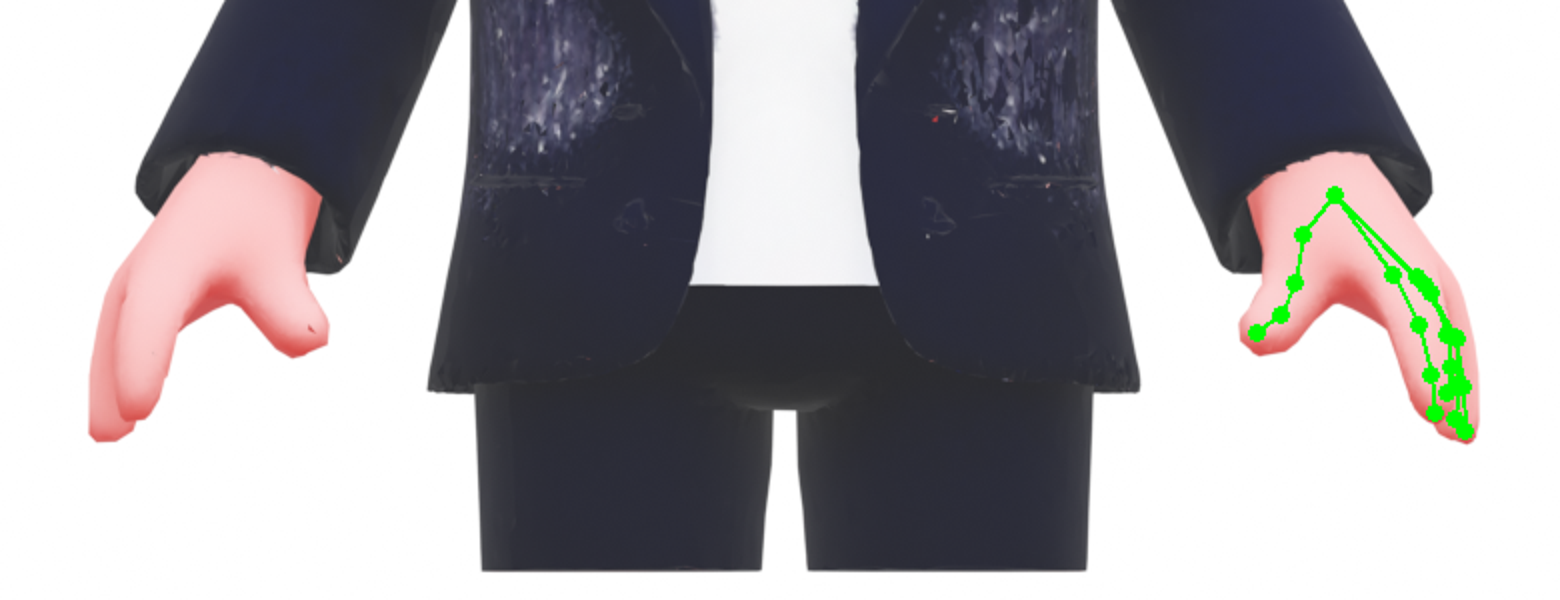
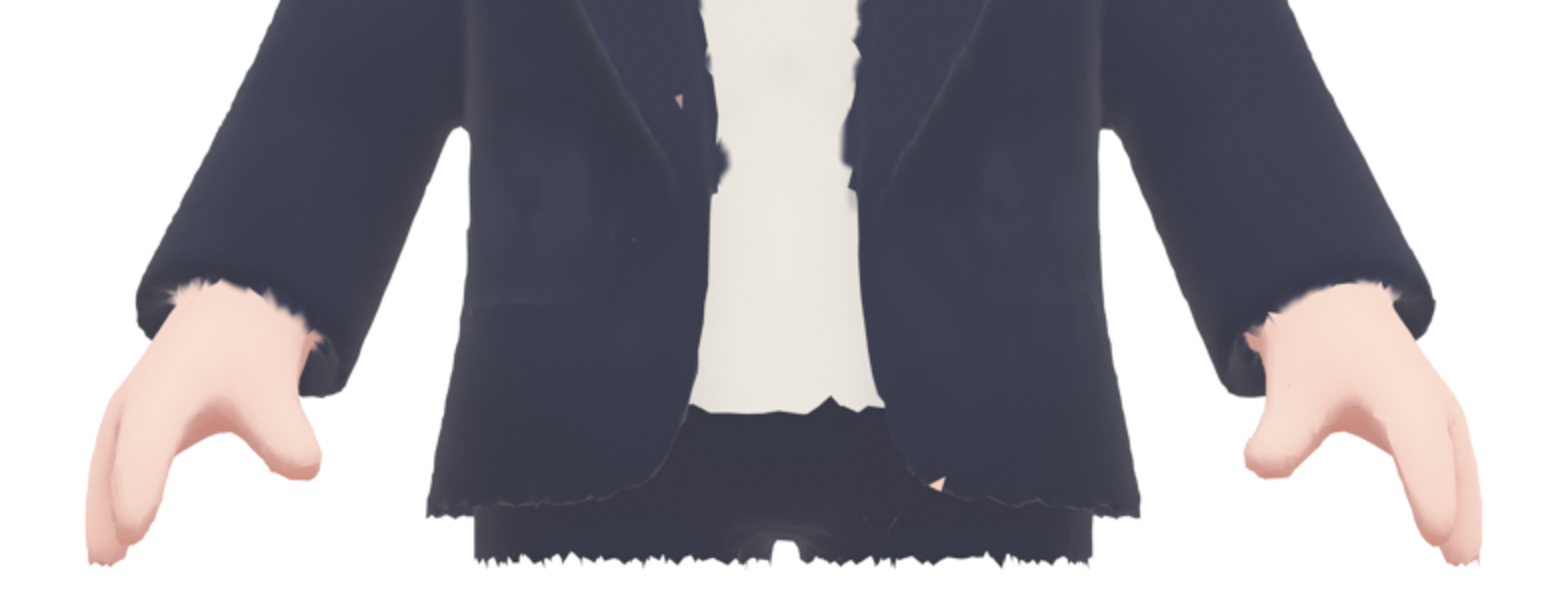
docs: 만드는 방법 (docs/HOW-TO-BUILD.md) — 도구 설치부터 A자 이미지·몸 3D·상자 모델·머리 이식·손·리깅·확인까지 전체 명령과 잘 안 됐던 것. trellis-mac 로컬 수정을 패치·스크립트로, 손으로 했던 랜드마크 합치기를 rig/merge_landmarks.py 로

diff --git a/trellis/patch_trellis_mac.py b/trellis/patch_trellis_mac.py
@@ -1,0 +1,48 @@
+"""trellis-mac(TRELLIS.2 Apple Silicon 포트)에 이 저장소가 쓴 로컬 수정을 입힌다. 여러 번 실행해도 된다.
+
+  python3 trellis/patch_trellis_mac.py ~/Documents/GitHub/trellis-mac
+
+1. backends/texture_baker.py·generate.py: trellis/trellis-mac.patch (텍스처 굽기 v방향·텍셀 중심·감마 버그, UV 여백, --bake-faces, 다시 굽기용 *_bake.npz 저장)
+2. TRELLIS.2/.../rembg/BiRefNet.py: 배경 제거 모델을 환경변수 TRELLIS_REMBG 로 바꿀 수 있게 (게이트된 briaai/RMBG-2.0 대신 공개 ZhengPeng7/BiRefNet), float32 로 맞춤
+3. venv 에 einops(BiRefNet), gradio_client(Space 호출), mediapipe(관절 찾기) 설치
+setup.sh 를 먼저 실행해 둔 trellis-mac 에 쓴다 (기준 커밋 trellis-mac d58628f, TRELLIS.2 75fbf01).
+"""
+import subprocess
+import sys
+from pathlib import Path
+
+HERE = Path(__file__).resolve().parent
+tm = Path(sys.argv[1]).expanduser().resolve() if len(sys.argv) > 1 else Path.home() / 'Documents/GitHub/trellis-mac'
+
+# 1) git 패치
+gen = (tm / 'generate.py').read_text()
+if '--bake-faces' in gen:
+    print('[patch] generate.py·texture_baker.py: already patched')
+else:
+    subprocess.run(['git', 'apply', str(HERE / 'trellis-mac.patch')], cwd=tm, check=True)
+    print('[patch] applied trellis-mac.patch')
+
+# 2) BiRefNet
+p = tm / 'TRELLIS.2/trellis2/pipelines/rembg/BiRefNet.py'
+s = p.read_text()
+if 'TRELLIS_REMBG' not in s:
+    a = '''    def __init__(self, model_name: str = "ZhengPeng7/BiRefNet"):
+        self.model = AutoModelForImageSegmentation.from_pretrained('''
+    b = '''    def __init__(self, model_name: str = "ZhengPeng7/BiRefNet"):
+        # 로컬 수정: 게이트된 briaai/RMBG-2.0 대신 같은 구조의 공개 BiRefNet(MIT)을 쓸 수 있게 환경변수로 바꾼다
+        import os
+        model_name = os.environ.get("TRELLIS_REMBG", model_name)
+        self.model = AutoModelForImageSegmentation.from_pretrained('''
+    assert a in s, 'BiRefNet.py 모양이 예상과 다르다'
+    s = s.replace(a, b, 1)
+if 'self.model.float()' not in s:
+    s = s.replace('''        self.model.eval()''', '''        # 로컬 수정: 공개 BiRefNet 가중치는 half 로 실려 와 float 입력과 안 맞는다 → float32 로 맞춘다
+        self.model.float()
+        self.model.eval()''', 1)
+p.write_text(s)
+print('[patch] BiRefNet.py ok')
+
+# 3) 추가 패키지
+py = tm / '.venv/bin/python'
+subprocess.run(['uv', 'pip', 'install', '--python', str(py), '-q', 'einops', 'gradio_client', 'mediapipe'], check=True)
+print('[patch] extra packages ok')

diff --git a/rig/merge_landmarks.py b/rig/merge_landmarks.py
@@ -1,0 +1,35 @@
+"""머리 이식 뒤 rig.py 가 읽을 랜드마크를 만든다.
+
+  python3 rig/merge_landmarks.py
+
+입력: rig/body-front.json·body-front-landmarks.json (이식 전 몸 정면 렌더), rig/front.json·front-landmarks.json (이식 뒤 정면 렌더)
+출력: rig/front-landmarks.json (덮어씀), rig/front-hands.json
+
+- 포즈(어깨·팔꿈치·손목)는 이식 전 몸에서 찾은 값을 쓴다. 몸은 그대로라 같은 자리이고,
+  이식 뒤 렌더는 머리가 커져 화면 배율이 달라 MediaPipe 포즈가 흔들린다. 그래서 픽셀 좌표만 새 렌더 배율로 옮긴다.
+- 얼굴은 이식 뒤 렌더(새 머리)에서 찾은 값을 그대로 둔다.
+- 손은 rig/hand/ 의 새 손을 쓰므로 비워 둔다 (rig.py 가 아래팔 연장선으로 임시 점을 만든다).
+"""
+import json
+from pathlib import Path
+
+H = Path(__file__).resolve().parent
+old_o = json.load(open(H / 'body-front.json'))
+old_l = json.load(open(H / 'body-front-landmarks.json'))
+new_o = json.load(open(H / 'front.json'))
+new_l = json.load(open(H / 'front-landmarks.json'))
+
+
+def conv(p):
+    r, s = old_o['res'], old_o['ortho_scale']
+    x = old_o['cx'] + (p[0] - r / 2) / r * s
+    z = old_o['cz'] - (p[1] - r / 2) / r * s
+    r2, s2 = new_o['res'], new_o['ortho_scale']
+    return [r2 / 2 + (x - new_o['cx']) / s2 * r2, r2 / 2 - (z - new_o['cz']) / s2 * r2] + list(p[2:])
+
+
+new_l['pose'] = [conv(p) for p in old_l['pose']]
+new_l['note'] = 'pose: 이식 전 몸 렌더에서 찾은 관절을 새 렌더 픽셀로 옮긴 값. face: 새 렌더(이식한 머리)에서 찾은 값'
+json.dump(new_l, open(H / 'front-landmarks.json', 'w'))
+json.dump({'L': None, 'R': None}, open(H / 'front-hands.json', 'w'))
+print('[merge] wrote rig/front-landmarks.json, rig/front-hands.json')

diff --git a/docs/HOW-TO-BUILD.md b/docs/HOW-TO-BUILD.md
@@ -1,0 +1,183 @@
+# 이 캐릭터를 만든 방법
+
+영상 속 캐릭터를 카메라로 움직이는 3D 버튜버로 만든 전 과정입니다.
+명령은 저장소 루트에서 실행합니다. 모든 생성은 Apple Silicon Mac 한 대에서 무료로 돌렸습니다.
+
+전체 흐름은 이렇습니다.
+
+```
+레퍼런스 영상 프레임
+ ├─ (FLUX.2) 팔 벌린 A자 이미지 ─ (TRELLIS.2 로컬) 몸 3D ─ 텍스처 다시 굽기·정리 ─┐
+ ├─ (TRELLIS.2 Space) 프레임 그대로 3D = "상자 모델" (얼굴이 가장 닮음) ──────────┤ 머리 이식
+ └─ (FLUX.2 → TRELLIS.2) 손가락이 떨어진 손 ─────────────────────────────────────┤
+                                                       리깅 (뼈·가중치·3D 입) ─ public/navy.glb ─ three.js 앱
+```
+
+## 0. 준비물
+
+- Apple Silicon Mac, 메모리 24GB 이상 (TRELLIS 생성 중 최대 약 18GB를 씁니다).
+- 디스크 약 60GB (모델 가중치: TRELLIS 15GB, FLUX.2 klein 9B 8bit 18GB, 그 밖).
+- Node.js, `uv`, `ffmpeg`, `7z`(`brew install p7zip`).
+- Hugging Face 계정. `facebook/dinov3-vitl16-pretrain-lvd1689m` 사용 신청이 승인돼야 합니다 (Meta가 직접 검토해서 몇 시간 걸릴 수 있습니다).
+
+## 1. 도구 설치
+
+Blender 5.2: `brew install --cask blender` 가 DMG 마운트에서 실패하는 환경이 있습니다. 그때는 받은 DMG를 7z로 풀어서 옮깁니다.
+
+```sh
+brew install --cask blender || true
+7z x -y -o/tmp/bl ~/Library/Caches/Homebrew/downloads/*blender-*.dmg
+ditto /tmp/bl/Blender/Blender.app /Applications/Blender.app
+```
+
+TRELLIS.2 Apple Silicon 포트(trellis-mac)와 이 저장소의 로컬 수정:
+
+```sh
+git clone https://github.com/shivampkumar/trellis-mac.git ~/Documents/GitHub/trellis-mac
+cd ~/Documents/GitHub/trellis-mac && bash setup.sh && cd -
+python3 trellis/patch_trellis_mac.py ~/Documents/GitHub/trellis-mac
+~/Documents/GitHub/trellis-mac/.venv/bin/hf auth login
+```
+
+Xcode가 없으면 Metal 확장이 빌드되지 않고 CPU 굽기로 넘어갑니다. 그 CPU 굽기에 버그가 있어서(텍스처가 위아래로 뒤집혀 노이즈처럼 보임, 감마가 두 번 걸림) `patch_trellis_mac.py` 가 고칩니다.
+게이트된 배경 제거 모델(briaai/RMBG-2.0) 대신 공개 BiRefNet을 쓰게 하는 수정도 같이 들어갑니다.
+
+이미지 편집(FLUX.2 klein):
+
+```sh
+uv tool install --upgrade mflux
+```
+
+편의를 위해 아래에서 쓰는 변수입니다.
+
+```sh
+B=/Applications/Blender.app/Contents/MacOS/Blender
+PY=~/Documents/GitHub/trellis-mac/.venv/bin/python
+TM=~/Documents/GitHub/trellis-mac
+```
+
+## 2. 레퍼런스 프레임
+
+```sh
+for t in 0 2 4 6; do ffmpeg -v error -y -ss $t -i ~/Downloads/avatar-1791270641941691033-11.mp4 -frames:v 1 reference/idle-$t.png; done
+```
+
+`trellis/input-idle.png` 는 `reference/idle-0.png` 에서 오른쪽 아래 계산기를 배경색 다각형으로 지운 이미지입니다.
+계산기가 남아 있으면 몸에 붙은 덩어리로 생성됩니다.
+
+## 3. 팔 벌린 A자 이미지 (FLUX.2, 로컬, 약 2분)
+
+레퍼런스는 손을 책상에 올린 채 화면 아래에서 잘려 있습니다. 그대로 3D로 만들면 몸이 상자에 들어간 모양이 되고 팔이 굳습니다.
+같은 캐릭터를 팔을 벌리고 선 자세로 다시 그립니다.
+
+```sh
+mflux-generate-flux2-edit --model mlx-community/flux2-klein-9b-8bit --base-model flux2-klein-9b \
+  --image-paths trellis/input-idle.png --prompt-file trellis/apose-prompt.txt \
+  --width 1024 --height 1024 --seed 1 --low-ram --output trellis/apose-s1.png
+```
+
+## 4. 몸 3D (TRELLIS.2, 로컬)
+
+```sh
+cd $TM && source .venv/bin/activate
+TRELLIS_REMBG=ZhengPeng7/BiRefNet python generate.py ~/Documents/GitHub/navy-blender-vtuber/trellis/apose-s1.png \
+  --seed 42 --pipeline-type 512 --texture-size 2048 --output ~/Documents/GitHub/navy-blender-vtuber/trellis/apose-s1-t42b
+cd -
+```
+
+생성은 약 5분이고, 20만 면 UV 펼치기에 약 40분이 더 걸립니다. 결과와 함께 `*_bake.npz`(복셀 색·메시)가 남아서 다음 단계부터는 생성 없이 다시 구울 수 있습니다.
+`--pipeline-type 1024_cascade` 는 24GB 메모리에서 스왑이 40GB까지 차서 멈췄습니다. 512로 충분했습니다.
+
+텍스처 다시 굽기와 정리:
+
+```sh
+$PY trellis/rebake.py trellis/apose-s1-t42b_bake.npz trellis/body-tex.glb      # 면 방향 통일·UV 밀도·색 정리 (약 1분)
+$PY trellis/clean_tex3d.py trellis/body-tex.glb trellis/body-tex-clean.glb --cell 0.008   # 3D 칸 다수결로 튀는 점 정리
+```
+
+## 5. 얼굴용 "상자 모델" (TRELLIS.2 공식 Space)
+
+로컬 결과는 FLUX가 다시 그린 얼굴이라 레퍼런스와 조금 다르고, 눈 가장자리가 번집니다.
+레퍼런스 프레임을 그대로 넣은 공식 Space 결과가 얼굴·머리카락이 가장 닮았습니다 (몸은 상자에 들어간 모양이라 머리만 씁니다).
+
+```sh
+$PY trellis/space_gen.py trellis/input-idle.png trellis/out-idle-s0.glb 0 1024
+```
+
+이 단계는 이미지를 Hugging Face 서버에 올립니다. 무료 GPU 할당량이 하루 몇 분이라 두세 번 돌리면 다음 날까지 막힙니다.
+
+## 6. 머리 이식
+
+두 모델의 정면을 직교로 렌더하고 MediaPipe로 눈·입·턱 위치를 찾은 뒤, 상자 모델 머리를 몸에 맞춰 붙입니다.
+크기는 레퍼런스 비율(머리 : 몸통 = 1.44)로 정하고, 목 띠는 텍스처 색으로 갈라 이음매를 셔츠 깃에 둡니다. 코끝도 여기서 살짝 뾰족하게 다듬습니다.
+
+```sh
+$B --background --python rig/front_ortho.py -- trellis/body-tex-clean.glb rig/body-front.png 1024
+$PY rig/detect.py rig/body-front.png
+ROTX=0 $B --background --python rig/front_ortho.py -- trellis/out-idle-s0.glb rig/box-front.png 1024
+$PY rig/detect.py rig/box-front.png
+$B --background --python rig/headswap.py -- trellis/body-tex-clean.glb trellis/out-idle-s0.glb trellis/body-swap.glb
+```
+
+`ROTX=0` 은 Space 결과가 이미 서 있어서 세우는 회전을 빼는 옵션입니다 (로컬 결과는 누워서 나옵니다).
+
+## 7. 손 (손가락이 떨어진 손)
+
+생성된 몸의 손은 네 손가락이 붙은 벙어리장갑 모양이라 손가락 트래킹이 안 됩니다. 손만 따로 만들어 소매에 끼웁니다.
+
+```sh
+mflux-generate-flux2-edit --model mlx-community/flux2-klein-9b-8bit --base-model flux2-klein-9b \
+  --image-paths trellis/apose-s1.png --prompt-file trellis/hand-prompt.txt \
+  --width 1024 --height 1024 --seed 11 --low-ram --output trellis/hand-s11.png
+cd $TM && source .venv/bin/activate
+TRELLIS_REMBG=ZhengPeng7/BiRefNet python generate.py ~/Documents/GitHub/navy-blender-vtuber/trellis/hand-s11.png \
+  --seed 42 --pipeline-type 512 --texture-size 1024 --bake-faces 30000 --output ~/Documents/GitHub/navy-blender-vtuber/trellis/hand-s11-t42
+cd -
+$PY rig/hand/recolor.py trellis/hand-s11-t42.glb rig/hand/hand_R.glb 225 120 114   # 손 텍스처가 단색 빨강으로 구워져서 피부색으로
+for v in front side top; do $B --background --python rig/hand/ortho.py -- rig/hand/hand_R.glb rig/hand/ortho-$v.png 1024 $v; done
+$PY rig/hand/landmarks.py rig/hand/hand_R.glb    # MediaPipe 21점을 3D로 → rig/hand/hand_R.json
+```
+
+왼손은 리깅 때 오른손을 거울로 뒤집어 만듭니다.
+
+## 8. 리깅
+
+```sh
+$B --background --python rig/front_ortho.py -- trellis/body-swap.glb rig/front.png 1024
+$PY rig/detect.py rig/front.png
+python3 rig/merge_landmarks.py       # 몸 관절은 이식 전 렌더 값, 얼굴은 이식 뒤 값
+$B --background --python rig/rig.py -- trellis/body-swap.glb public/navy.glb --baked-face
+```
+
+`rig/rig.py` 가 하는 일 (몇 초):
+
+- 세워서 앱 크기(재킷 밑단 y=0 ~ 머리 끝 3.05)로 맞추고, 바지를 잘라 냅니다.
+- MediaPipe 관절을 소매 단면의 가운데로 옮겨 뼈를 세웁니다. 손가락 15개씩, 턱(`jaw`), 윗입술(`lip_up`)까지 45개입니다.
+- 가중치는 Blender 자동 가중치가 이 메시에서 실패해서, 뼈까지 거리와 관절 사이 섞임 띠로 직접 계산합니다 (`rig/weights.py`).
+- 생성 손을 소매 끝에서 잘라 내고 새 손을 끼웁니다 (`rig/handattach.py`). 소매 끝에는 남색 말린 단을 덧댑니다.
+- 재킷·셔츠는 생성 텍스처의 흰 얼룩 때문에 단색 재질로 바꾸고, 라펠 가장자리 가시를 셔츠 경계선으로 밀어 정리합니다.
+- 3D 입 (`rig/mouth.py`): 텍스처에서 구운 미소 선을 찾아 그 곡선으로 메시를 가르고, 입 뒤의 숨은 안쪽 껍질을 지우고, 입 속·혀를 넣습니다. 입 가운데만 크게 열리고 입꼬리는 거의 닫히게 가중치를 줍니다.
+- 끝이 파여 보이던 오른눈은 왼눈을 좌우로 뒤집어 텍셀 단위로 옮깁니다 (`rig/hairtrim.py` 의 `mirror_eye`).
+- 겨드랑이 다리, 얼굴 점 위치(`public/navy-rig.json`)를 만들어 함께 내보냅니다.
+
+## 9. 앱에서 확인
+
+카메라 없이 하네스로 렌더해 봅니다.
+
+```sh
+SIZE=720x720 npm run shot -- harness.html shots/front.png "preset=idle&ty=1.4&zoom=0.956&elev=4"
+SIZE=480x480 SKIP_BUILD=1 npm run shot -- harness.html shots/talk.png "preset=mouth&ty=1.85&zoom=3.0"
+SIZE=1500x1200 SKIP_BUILD=1 npm run shot -- harness.html shots/sheet.png "sheet=1&cols=5"
+npm run app
+```
+
+`ty=1.4&zoom=0.956&elev=4` 는 `reference/idle-0.png` 와 같은 구도입니다. 프리셋은 `src/harness/presets.ts` 에 있습니다.
+
+## 잘 안 됐던 것
+
+- 코드로 부위를 만들어 조립한 모델(브랜치 `wip/procedural-parts`)은 부품을 끼운 장난감처럼 보였습니다. 공·국수 팔 같은 기하 캐릭터가 아니면 이미지→3D가 낫습니다.
+- 레퍼런스 프레임을 그대로 넣으면 몸이 상자에 들어간 모양으로 나옵니다. 몸은 A자 이미지로, 얼굴은 레퍼런스로 따로 만들어 붙였습니다.
+- 생성 텍스처의 옷은 가까이 보면 누더기처럼 얼룩져서 결국 단색 재질로 바꿨습니다.
+- 옆머리 가닥을 지우면 머리카락 아래에 피부가 없어서 얼룩이 남습니다. 머리 모양을 바꾸려면 3단계 이미지부터 다시 만들어야 합니다.
+- 카메라 깜빡임 값은 사람마다 범위가 다릅니다 (뜬 눈 0.05~0.5, 감은 눈 0.5~1.0). 눈꺼풀은 눈마다 그 범위를 배워서 그립니다 (`src/model/faceOverlay.ts`).
+- 웃는 입 전체가 같이 벌어지면 무서워 보입니다. 가운데만 열리게 하고, 윗입술 뼈로 윗선을 폅니다.

diff --git a/README.md b/README.md
@@ -41,12 +41,14 @@ npm run app
 1. 레퍼런스 프레임을 FLUX.2 klein(mflux, 로컬)으로 팔을 벌린 A자 자세 이미지로 바꿨습니다 (`trellis/apose-s1.png`).
 2. TRELLIS.2 Apple Silicon 포트(trellis-mac, 로컬)로 몸 전체를 3D로 만들었습니다. 텍스처 굽기 버그를 고쳐 다시 구웠습니다 (`trellis/rebake.py`).
 3. 얼굴은 레퍼런스 프레임에서 바로 만든 모델이 더 닮아서 그 머리를 몸에 이식했습니다 (`rig/headswap.py`).
-4. `rig/rig.py` 가 뼈대(손가락 15개씩, 턱·윗입술 포함)와 절차 가중치를 넣고 `public/navy.glb` 로 내보냅니다.
+4. `rig/rig.py` 가 뼈대(45개: 손가락 15개씩, 턱·윗입술 포함)와 절차 가중치를 넣고 `public/navy.glb` 로 내보냅니다.
    생성된 손은 손가락이 붙어 있어서 따로 만든 손(`rig/hand/`)으로 바꿨습니다.
    재킷·셔츠는 생성 텍스처의 노이즈 때문에 단색 재질로 바꿨습니다.
 5. 입은 구운 미소 선을 따라 메시를 갈라 턱 뼈로 엽니다 (`rig/mouth.py`). 깜빡임은 `src/model/faceOverlay.ts` 가 덧그립니다.
 
-모델 다시 만들기:
+처음부터 따라 만드는 전체 명령과 잘 안 됐던 것들은 [docs/HOW-TO-BUILD.md](docs/HOW-TO-BUILD.md) 에 있습니다.
+
+모델 다시 만들기 (리깅만):
 
 ```sh
 /Applications/Blender.app/Contents/MacOS/Blender --background --python rig/rig.py -- trellis/body-swap.glb public/navy.glb --baked-face
